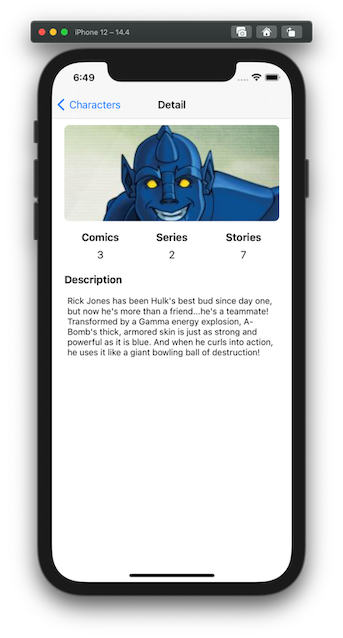
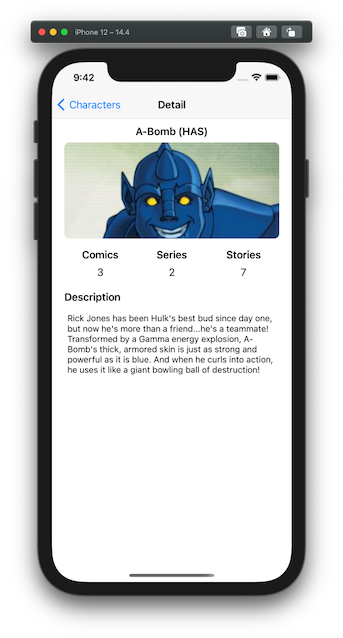
Se añade campo nombre a vista detalle y se actualiza screenshot.

Changed region(s): [[0.1749, 0.1787, 0.8163, 0.5956], [0.379, 0.8934, 0.6122, 0.9232]]

diff --git a/Marvel/Controllers/DetailCharacter/DetailCharacterTableViewController.swift b/Marvel/Controllers/DetailCharacter/DetailCharacterTableViewController.swift
@@ -9,6 +9,7 @@ import UIKit
 
 final class DetailCharacterTableViewController: UITableViewController {
 
+    @IBOutlet weak var nameLabel: UILabel!
     @IBOutlet weak var avatar: UIImageView!
     @IBOutlet weak var numComicsLabel: UILabel!
     @IBOutlet weak var numSeriesLabel: UILabel!
@@ -55,6 +56,7 @@ final class DetailCharacterTableViewController: UITableViewController {
     }
 
     private func setupUI() {
+        nameLabel.text = model?.getName()
         numComicsLabel.text = model?.getNumComics()
         numSeriesLabel.text = model?.getNumSeries()
         numStoriesLabel.text = model?.getNumStories()
